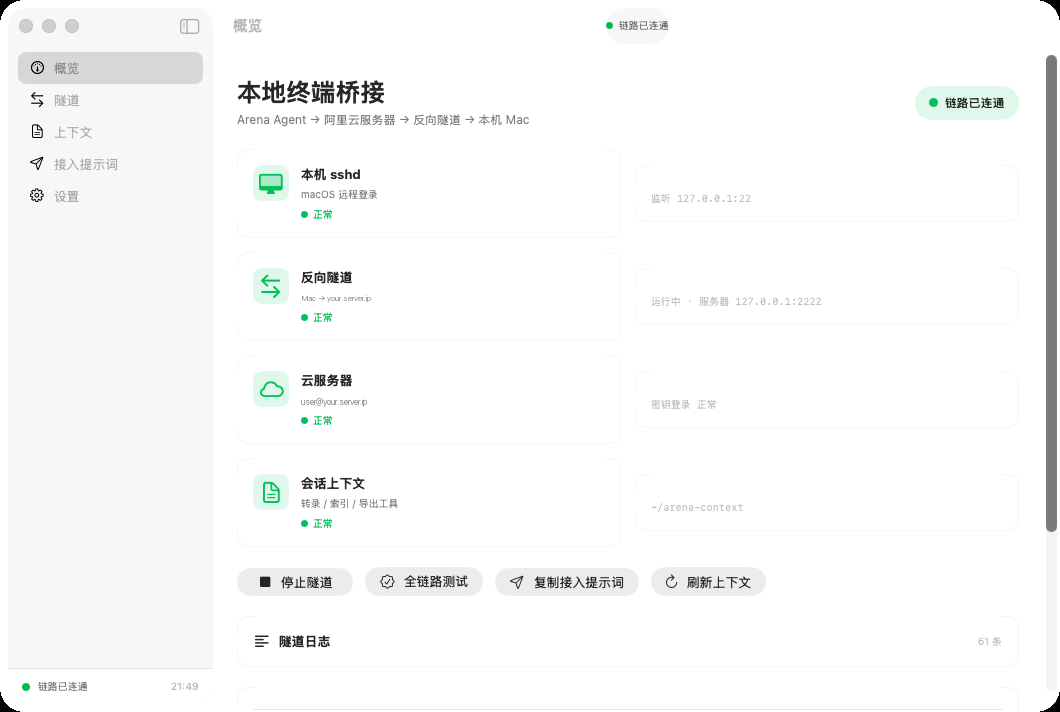
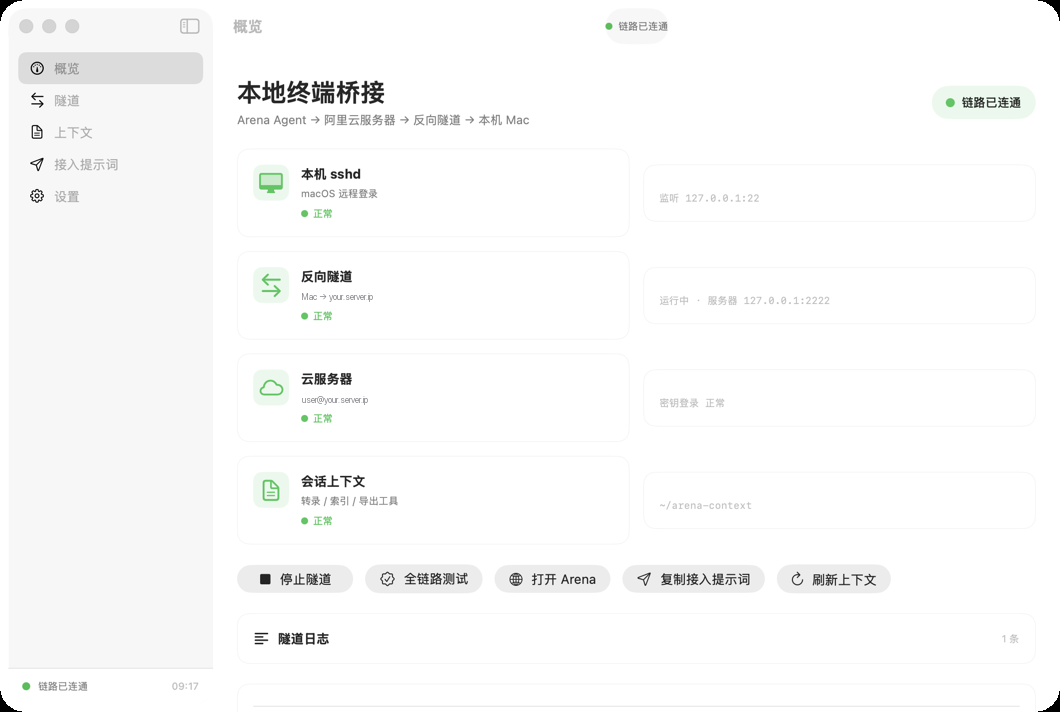
feat: 新增「打开 Arena」按钮，流程闭环
- 概览页 / 接入提示词页新增「打开 Arena」，在默认浏览器打开 arena 页面
- 支持在设置页自定义 Arena 网址（默认 https://arena.ai，配置项向后兼容）
- 更新 README 截图与功能说明

diff --git a/Sources/ArenaBridge/Views/SettingsView.swift b/Sources/ArenaBridge/Views/SettingsView.swift
@@ -46,6 +46,14 @@ struct SettingsView: View {
                 Button("重新生成 Arena 接入密钥") { regenerateServerKey() }
             }
 
+            Section("Arena") {
+                TextField("Arena 网址", text: Binding(
+                    get: { model.config.arenaURL ?? "https://arena.ai" },
+                    set: { model.config.arenaURL = $0 }
+                ))
+                Button("在默认浏览器中打开") { model.openArena() }
+            }
+
             Section("启动") {
                 Toggle("启动 App 时自动开启隧道", isOn: $model.config.autoStart)
             }

diff --git a/Sources/ArenaBridge/AppModel.swift b/Sources/ArenaBridge/AppModel.swift
@@ -121,6 +121,18 @@ final class AppModel: ObservableObject {
         pasteboard.setString(text, forType: .string)
     }
 
+    var arenaPageURL: String {
+        if let url = config.arenaURL?.trimmingCharacters(in: .whitespaces), !url.isEmpty {
+            return url
+        }
+        return "https://arena.ai"
+    }
+
+    func openArena() {
+        guard let url = URL(string: arenaPageURL) else { return }
+        NSWorkspace.shared.open(url)
+    }
+
     func revealInFinder(_ path: String) {
         NSWorkspace.shared.activateFileViewerSelecting([URL(fileURLWithPath: path)])
     }

diff --git a/Sources/ArenaBridge/Views/OverviewView.swift b/Sources/ArenaBridge/Views/OverviewView.swift
@@ -118,6 +118,13 @@ struct OverviewView: View {
             .disabled(testing)
 
             Button {
+                model.openArena()
+            } label: {
+                Label("打开 Arena", systemImage: "globe")
+            }
+            .controlSize(.large)
+
+            Button {
                 model.copyToClipboard(model.generatePrompt())
                 showToast("接入提示词已复制，去 Arena 粘贴")
             } label: {

diff --git a/Sources/ArenaBridge/Views/PromptView.swift b/Sources/ArenaBridge/Views/PromptView.swift
@@ -10,6 +10,11 @@ struct PromptView: View {
         VStack(spacing: 0) {
             HStack(spacing: 12) {
                 Button {
+                    model.openArena()
+                } label: {
+                    Label("打开 Arena", systemImage: "globe")
+                }
+                Button {
                     regenerate()
                 } label: {
                     Label("重新生成", systemImage: "arrow.clockwise")

diff --git a/Sources/ArenaBridge/Config.swift b/Sources/ArenaBridge/Config.swift
@@ -13,6 +13,7 @@ struct AppConfig: Codable, Equatable {
     var tunnelKeyPath: String = "~/.ssh/id_ed25519"
     var serverKeyPath: String = "~/.ssh/arena_server_key"
     var contextDir: String = "~/arena-context"
+    var arenaURL: String? = nil
 
     static let defaultsKey = "dev.arena.bridge.config"
 
